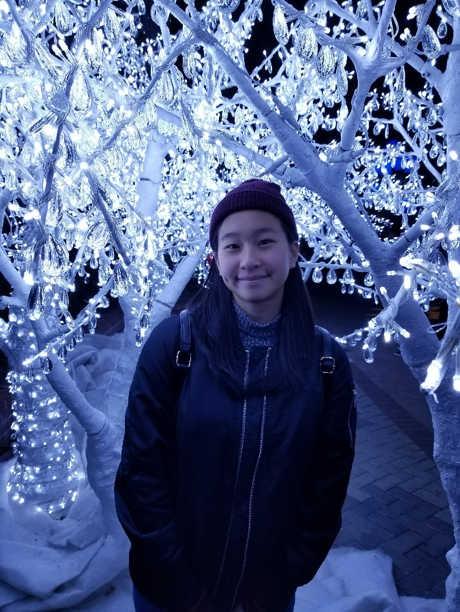
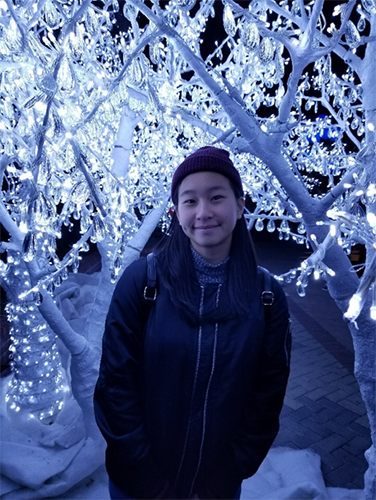
image resize to optimize loading time

diff --git a/css/main.css b/css/main.css
@@ -119,7 +119,7 @@ li a:hover {
   border-color: transparent;
   color: #000000;
   font-size: 15px;
-  padding: 10px;
+  padding: 12px 17px;
   margin-bottom: 10px;
   border-radius: 5px;
   font-weight: 400;
@@ -151,6 +151,7 @@ li a:hover {
   display: flex;
   justify-content: center;
   margin: 15px auto;
+  margin-bottom: 0px;
   width: 580px;
   font-size: 17px;
   line-height: 1.8em; }
@@ -218,7 +219,8 @@ h3 {
   height: 420px;
   object-fit: cover;
   border-radius: 10px;
-  margin: 0px 50px; }
+  margin: 0px 50px;
+  box-shadow: 0 3px 5px 0 rgba(0, 0, 0, 0.2); }
 
 .project-title {
   font-weight: 400; }
@@ -293,7 +295,8 @@ h3 {
   padding: 15px;
   width: auto;
   display: flex;
-  justify-content: space-evenly; }
+  justify-content: space-evenly;
+  box-shadow: 0 3px 5px 0 rgba(0, 0, 0, 0.2); }
 
 .person-desc {
   margin: 0px 80px;
@@ -640,7 +643,8 @@ footer {
   .lab-desc {
     text-align: left;
     font-weight: 300;
-    font-size: 14px; }
+    font-size: 15px;
+    width: 450px; }
   .lab-article-section {
     display: flex;
     flex-direction: column; }
@@ -762,8 +766,31 @@ footer {
     font-size: 32px; }
   .lab-desc {
     width: 335px; }
+  .home-btn {
+    font-size: 12px;
+    padding: 10px 15px; }
   .lab-title {
     font-size: 24px; }
+  hr.line {
+    width: 400px; }
+  .first-sec {
+    margin-top: 50px; }
+  .project-sec {
+    display: flex;
+    flex-direction: column-reverse;
+    width: 400px;
+    padding: 50px; }
+  .flip-sec {
+    flex-direction: column; }
+  .project-desc {
+    line-height: 1.8em; }
+  .project-img {
+    display: flex;
+    width: 300px;
+    height: 300px;
+    margin: auto; }
+  .project-title {
+    font-weight: 400; }
   .students {
     padding: 60px 10px; }
   .professor {

diff --git a/people.html b/people.html
@@ -69,7 +69,7 @@
       <div class="info-card">
         <img
           class="person-img"
-          src="img/bencharit.jpg"
+          src="img/bencharit.png"
           alt="doctor lucy bencharit, the professor and lead researcher"
         />
         <div class="person-desc">
@@ -126,7 +126,7 @@
       <div class="info-card">
         <img
           class="person-img"
-          src="img/kristina.jpg"
+          src="img/kristina.png"
           alt="Kristina Toma , psychology student research assistant"
         />
         <div class="person-desc">
@@ -151,7 +151,7 @@
       <div class="info-card">
         <img
           class="person-img"
-          src="img/lisa.jpg"
+          src="img/lisa.png"
           alt="Lisa Bertholdt, psychology student research assistant"
         />
         <div class="person-desc">
@@ -179,7 +179,7 @@
       <div class="info-card">
         <img
           class="person-img"
-          src="img/ryan.jpg"
+          src="img/ryan.png"
           alt="ryan untalan, psychology student research assistant"
         />
         <div class="person-desc">

diff --git a/projects.html b/projects.html
@@ -65,10 +65,10 @@
       </nav>
     </header>
 
-    <section class="project-sec">
+    <section class="project-sec first-sec">
       <img
         class="project-img"
-        src="img/culture.jpg"
+        src="img/culture.png"
         alt="diverse group of people in a meeting room"
       />
       <div class="project">
@@ -92,7 +92,7 @@
 
     <hr class="line" />
 
-    <section class="project-sec">
+    <section class="project-sec flip-sec">
       <div class="project">
         <h1 class="project-title">
           There Is No “I” In Team
@@ -111,7 +111,7 @@
       </div>
       <img
         class="project-img"
-        src="img/team.jpg"
+        src="img/team.png"
         alt="diverse group of people putting their hands together"
       />
     </section>
@@ -121,7 +121,7 @@
     <section class="project-sec">
       <img
         class="project-img"
-        src="img/office.jpg"
+        src="img/office.png"
         alt="clean simple office space"
       />
       <div class="project">

diff --git a/scss/_mobile.scss b/scss/_mobile.scss
@@ -110,7 +110,8 @@
   .lab-desc {
     text-align: left;
     font-weight: 300;
-    font-size: 14px;
+    font-size: 15px;
+    width: 450px;
   }
 
   .lab-article-section {
@@ -176,8 +177,50 @@
     width: 335px;
   }
 
+  .home-btn {
+    font-size: 12px;
+    padding: 10px 15px;
+  }
+
   .lab-title {
     font-size: 24px;
+  }
+
+  //projects
+
+  hr.line {
+    width: 400px;
+  }
+
+  .first-sec {
+    margin-top: 50px;
+  }
+
+  .project-sec {
+    display: flex;
+    flex-direction: column-reverse;
+    width: 400px;
+    padding: 50px;
+  }
+
+  .flip-sec {
+    flex-direction: column;
+  }
+
+  .project-desc {
+    line-height: 1.8em;
+  }
+
+  .project-img {
+    display: flex;
+
+    width: 300px;
+    height: 300px;
+    margin: auto;
+  }
+
+  .project-title {
+    font-weight: 400;
   }
 
   //people

diff --git a/scss/main.scss b/scss/main.scss
@@ -158,7 +158,8 @@ li a:hover {
   border-color: transparent;
   color: #000000;
   font-size: 15px;
-  padding: 10px;
+  padding: 12px 17px;
+
   margin-bottom: 10px;
   border-radius: 5px;
   font-weight: 400;
@@ -199,6 +200,7 @@ li a:hover {
   display: flex;
   justify-content: center;
   margin: 15px auto;
+  margin-bottom: 0px;
 
   width: 580px;
   font-size: 17px;
@@ -283,6 +285,7 @@ h3 {
   object-fit: cover;
   border-radius: 10px;
   margin: 0px 50px;
+  box-shadow: 0 3px 5px 0 rgba(0, 0, 0, 0.2);
 }
 
 .project-title {
@@ -374,6 +377,7 @@ h3 {
   width: auto;
   display: flex;
   justify-content: space-evenly; //check space evenly
+  box-shadow: 0 3px 5px 0 rgba(0, 0, 0, 0.2);
 }
 
 .person-desc {
